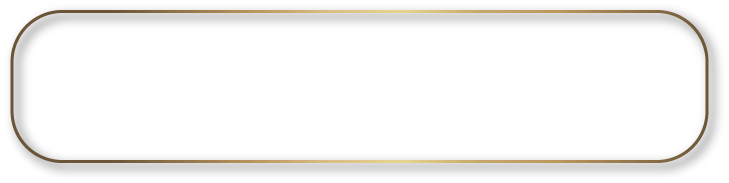
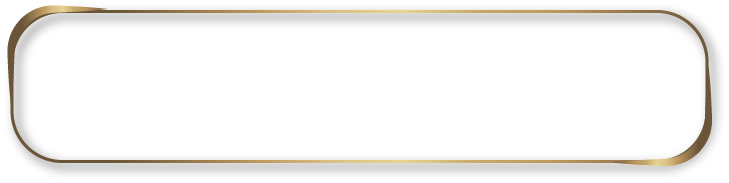
partial experiences

Changed region(s): [[0.845, 0.4372, 0.9959, 0.929], [0.0, 0.0273, 0.1509, 0.4645]]

diff --git a/lib/pages/activities/widgets/rearoption.dart b/lib/pages/activities/widgets/rearoption.dart
@@ -1,40 +1,54 @@
-import 'package:flutter/material.dart'; 
+import 'package:flutter/material.dart';
+import 'package:google_fonts/google_fonts.dart';
 import 'package:naver_crs/common/index.dart';
 
 class RearOptionWidget extends StatelessWidget {
-  const RearOptionWidget(
-      {Key? key,
-      this.experience = "coast",
-      this.description =
-          """Lorem Ipsum is simply dummy text of the printing and typesetting 
-industry. Lorem Ipsum has been but also the leap into electronic 
-typesetting, Lorem Ipsum has been but also................."""})
+  const RearOptionWidget({Key? key, this.experience = "coast"})
       : super(key: key);
 
   final String experience;
-  final String description;
   @override
   Widget build(BuildContext context) {
     Map<String, dynamic> experiences = getContext("experiences");
-    return Stack(children: [
-      Padding(
-        padding: EdgeInsets.only(
-          top: MediaQuery.of(context).size.height * 0.01,
-          left: MediaQuery.of(context).size.width * 0.01,
-        ),
-        child: Image.asset(experiences[experience][2],
-            width: MediaQuery.of(context).size.width * 0.4),
-      ),
-      Padding(
-        padding: EdgeInsets.only(
-          top: MediaQuery.of(context).size.height * 0.04,
-          left: MediaQuery.of(context).size.width * 0.005,
-        ),
-        child: Align(
-          alignment: Alignment.bottomCenter,
-          child: Image.asset(experiences[experience][3]),
-        ),
-      ),
-    ]);
+    return Stack(
+      fit: StackFit.expand,
+      children: [
+        Container(
+            child: Align(
+              alignment: Alignment.topCenter,
+              child: Stack(
+                children: [
+                  Text(
+                    "\n\n\ndescripcion",
+                    style: GoogleFonts.poppins(
+                        textStyle: TextStyle(
+                      color: const Color.fromARGB(255, 0, 0, 0),
+                      fontSize: MediaQuery.of(context).size.width * 0.01,
+                      fontWeight: FontWeight.normal,
+                    )),
+                  ),
+                  Text(
+                    " Title",
+                    style: GoogleFonts.poppins(
+                        textStyle: TextStyle(
+                      color: const Color.fromARGB(255, 204, 164, 61),
+                      fontSize: MediaQuery.of(context).size.width * 0.02,
+                      fontWeight: FontWeight.bold,
+                    )),
+                  ),
+                ],
+              ),
+            ),
+            width: MediaQuery.of(context).size.width * 0.24,
+            height: MediaQuery.of(context).size.height * 0.1,
+            decoration: BoxDecoration(
+                image: DecorationImage(
+              image: Image.asset(
+                experiences[experience][0],
+                fit: BoxFit.fill,
+              ).image,
+            ))),
+      ],
+    );
   }
 }

diff --git a/lib/pages/activities/widgets/frontoption.dart b/lib/pages/activities/widgets/frontoption.dart
@@ -1,4 +1,5 @@
 import 'package:flutter/material.dart';
+import 'package:google_fonts/google_fonts.dart';
 import 'package:naver_crs/common/index.dart';
 
 class FrontOptionWidget extends StatelessWidget {
@@ -9,23 +10,31 @@ class FrontOptionWidget extends StatelessWidget {
   @override
   Widget build(BuildContext context) {
     Map<String, dynamic> experiences = getContext("experiences");
-    return Stack(children: [
-      Positioned(
-        
-        child: Image.asset(experiences[experience][2],
-            width: MediaQuery.of(context).size.width * 0.25,
-            height: MediaQuery.of(context).size.height * 0.13),
-      ),
-      // Padding(
-      //   padding: EdgeInsets.only(
-      //     top: MediaQuery.of(context).size.height * 0.04,
-      //     left: MediaQuery.of(context).size.width * 0.005,
-      //   ),
-      //   child: Align(
-      //     alignment: Alignment.bottomCenter,
-      //     child: Image.asset(experiences[experience][3]),
-      //   ),
-      // ),
-    ]);
+    return Stack(
+      children: [
+        Container(
+            child: Align(
+              alignment: Alignment.center,
+              child: Text(
+                "Experience",
+                style: GoogleFonts.poppins(
+                    textStyle: TextStyle(
+                  color: const Color.fromARGB(255, 255, 255, 255),
+                  fontSize: MediaQuery.of(context).size.width * 0.024,
+                  fontWeight: FontWeight.bold,
+                )),
+              ),
+            ),
+            width: MediaQuery.of(context).size.width * 0.271,
+            height: MediaQuery.of(context).size.height * 0.11,
+            decoration: BoxDecoration(
+                image: DecorationImage(
+              image: Image.asset(
+                experiences[experience][2],
+                fit: BoxFit.cover,
+              ).image,
+            ))),
+      ],
+    );
   }
 }

diff --git a/lib/pages/activities/widgets/goldborder.dart b/lib/pages/activities/widgets/goldborder.dart
@@ -5,16 +5,17 @@ class GoldBorderWidget extends StatelessWidget {
   final Widget child;
   @override
   Widget build(BuildContext context) {
-    return Padding(
-      padding: EdgeInsets.only(left: MediaQuery.of(context).size.width * 0.0),
-      child: Stack(
-        children: [
-          Image.asset("assets/custom/img/1x/Recurso_373mdpi.png",
-              width: MediaQuery.of(context).size.width * 0.27,
-              height: MediaQuery.of(context).size.height * 0.3),
-          child
-        ],
-      ),
-    );
+    return Container(
+        width: MediaQuery.of(context).size.width * 0.4,
+        height: MediaQuery.of(context).size.height * 0.11,
+        decoration: BoxDecoration(
+          image: DecorationImage(
+            image: Image.asset(
+              "assets/custom/img/1x/Recurso_211mdpi.png",
+              fit: BoxFit.fill,
+            ).image,
+          ),
+        ),
+        child: Center(child: child));
   }
 }

diff --git a/lib/common/context/index.dart b/lib/common/context/index.dart
@@ -14,7 +14,7 @@ class Context with PropertyChangeNotifier<String> {
     "session": {"avatar": "".obs},
     "experiences": {
       "northern": [
-        "assets/custom/img/1x/Recurso_374mdpi.png",
+        "assets/custom/img/1x/Recurso_318mdpi.png",
         "Northern Highlands",
         "assets/custom/img/1x/Recurso_309mdpi.png",
         "assets/custom/img/1x/Recurso_308mdpi.png"
@@ -68,7 +68,7 @@ class Context with PropertyChangeNotifier<String> {
         "assets/custom/img/1x/Recurso_201mdpi.png"
       ],
       "coast": [
-        "assets/custom/img/1x/Recurso_373mdpi.png",
+        "assets/custom/img/1x/Recurso_191mdpi.png",
         "Coast",
         "assets/custom/img/1x/Recurso_374mdpi.png",
         "assets/custom/img/1x/Recurso_192mdpi.png"
